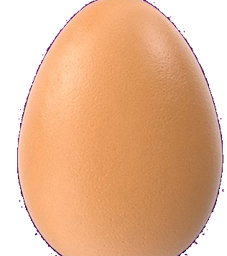
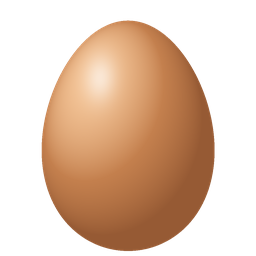
ov-art2 art: Speedrunner brick/duck/egg redrawn crisp; report + resume

diff --git a/rebuild/research/polish_report.md b/rebuild/research/polish_report.md
@@ -206,18 +206,6 @@ RESUME: 4oJgefAYN4k (batch 1 pushed; order = /workspace/work/ov_art1_order.txt)
 - zDFsnRE_Gig + iqfHW2_sMmc (Who Takes the Crown x2): white pixel N/B/R/Q were blurry, double-outlined (white halo) and much bigger than the cburnett pawns/king next to them; re-traced as clean vectors (one black outline) at the cburnett scale (84%).
 RESUME: last id done = iqfHW2_sMmc
 
-## ov-art2
-Art fix, second third of the sorted mode ids (MwXcULBxA_s .. gY9DNg9xDUM, 166 ids), ordered furthest-from-chess first. Owner art rule 5:21 PM ET.
-Tools (sandbox, not in repo): /workspace/work/ov_art2_tools/ (mono_set.py = rebuild a black/white icon pair from the white sprite; draw_pawn.py; clean.py; norm.py = centre + fit to 88-92% of the canvas).
-- _RFXN1Ye3sY (Ouroboros Master): FIX the shared Ouroboros icons (JAz_qMQpI1o/*) were jaggy with a speckled white halo on every black piece and the marching pawn had no outline; rebuilt as crisp 256px pairs in assets/modes/_RFXN1Ye3sY/ (white sprite smoothed, black = black fill + white detail lines derived from it), marching pawn redrawn; queen_face avatar + boss intro had the video caption ("Ouroboros Queen") baked over the crown: caption painted out from research/frames/sprites/_RFXN1Ye3sY_ouroboros_queen.png and the face recropped. (JAz_qMQpI1o / rf2HSTXTehE can point at the same files.)
-- VVuAgqLzD_o (Meta Chess): FIX rock was a blurry 90px box -> redrawn tile (grey square, target rings, pawn, as the video's d4/e5 blockers); medusa/sniper/sumo/camel had a transparent hole across the base (half-coloured) -> filled; dragonfly speckles trimmed.
-- djfYBXvvaYI (Villagers): FIX soldier/sergeant/villager sprites had a green fringe from the video's board squares -> neutralised, stray specks removed.
-- RDl-EmbTRWc (Chessformer, gravity): FIX avatar was a meaningless beige crop -> red king on the level's tan/green; pieces were pale cburnett glyphs under CSS hue filters -> the video's flat blue set (assets/modes/oAoik9Dj2qQ/blue_*.png) + a red king (cburnett outline in red, 256px); the two .pc filters removed from params.css.
-- Checked clean, no change: d-4NWgCwzco, Nz2A-g73_iM, OVM-2QJ2NFQ, dKBSZUzVQ1E (2D view; 3D is ov-3d), WXcmWG7Eczs, boaA9_TjXeU, fUQXSj5jVUk, PszkLYudcws, dkCMhNcZezM, dztzDlPfqSI, NK4Upb_s8Ok, OO3XlFQ32i0, c-_Th-jjfyM.
-- WEYUcaJTBso (King of the Bridge; set shared by 0LO0D0rOif0 1FKa1LnTDeQ 4KetMbEVvhI M0rsyuvaTrk Y7KKKTTkwNk hv_NHWqysZE puKYAUl9x9s ulE3YPZI9Sc): FIX the pixel set (pixel/*.svg) was a blurry JPEG-smudged cut (700-1500 colours per piece) -> re-cut from the Steam store screenshot (https://shared.fastly.steamstatic.com/store_item_assets/steam/apps/2523120/ss_84137ac7e990878b5d2fcfad8b24a4c345749d0b.jpg, start position, 77px squares) snapped to the game's 6-colour palette, crisp 256px nearest-neighbour, bottom-aligned at one common scale; black R/B/Q/N/P = the same shapes in the game's dark green; black king (hooded troll piece, back-rank cut merges with the board wall) redrawn as pixel art from that frame (cross-checked on https://i.redd.it/ym5i5yrtokoc1.png). Troll avatar: leftover title-card background replaced by flat dark green.
-- Y7KKKTTkwNk (King of the Bridge goose ending): uses the WEYUcaJTBso set + troll above.
-- PDCuJf3SdRY (Locust): FIX locust.png (jumpscare + board overlay) had the video's chessboard squares baked in behind the figure -> background cut to transparent, figure kept. QA 390/360 ok.
-RESUME: last id done = Y7KKKTTkwNk (priority order in /workspace/work/ov_art2_ids.txt; next d8pJkdxtXAA)
 - CxtttdnwNWk + 1_FSHqyc904 (Chess Ultimate, both modes share cu/): 40 tokens rebuilt at 256px from the game's own character renders (TierMaker template, URL in both source.notes) cut out with rembg on a sky disc inside the same cyan/red side ring; old video crops were blurry partial faces and Pawn had a red glow halo. Dragon/Fisherman/Minion (not in that set) keep their video crops, re-ringed to match. Jester keeps the King art on purpose (rules: it looks exactly like a King).
 - 7lEglazTlo8 (Soko Chess): black pawn, yellow pawn and the red/green target icons were 25-96px blurry crops; redrawn as one crisp 192px pawn SVG shape in the video colours.
 RESUME: 7lEglazTlo8 (batch 2; order = /workspace/work/ov_art1_order.txt, done through index 31 except skipped-clean ones)
@@ -232,3 +220,19 @@ RESUME: last id done = RDl-EmbTRWc (order file /workspace/work/ov_art2_ids.txt, 
 - yXE14E0QKNI (Gothic): Chancellor / Archbishop were a rook/bishop glyph + RN/BN badge; now cburnett knight+rook / knight+bishop composites (SVG, assets/modes/yXE14E0QKNI/{w,b}_{chancellor,archbishop,amazon,general}.svg).
 - Same composites wired (piece img + glyph null, badge gone) in n-sYPJVwaXs (XXL: Chancellor, Archbishop, General, Amazon; Camel keeps its badge), qZyNuiVbGMI + rMSar6g_2HY (Passant: Empress, Amazon), hk85bBLSi7Q (Seirawan Elephant; inferred: chess.com draws an elephant head, no frame of it in the repo, so the R+N composite stands in).
 RESUME: last id done = hk85bBLSi7Q (order file /workspace/work/ov_art3_order.txt, done through line 32 + hk85bBLSi7Q, n-sYPJVwaXs)
+
+## ov-art2
+Art fix, second third of the sorted mode ids (MwXcULBxA_s .. gY9DNg9xDUM, 166 ids), ordered furthest-from-chess first. Owner art rule 5:21 PM ET.
+Tools (sandbox, not in repo): /workspace/work/ov_art2_tools/ (mono_set.py = rebuild a black/white icon pair from the white sprite; draw_pawn.py; clean.py; norm.py = centre + fit to 88-92% of the canvas).
+- _RFXN1Ye3sY (Ouroboros Master): FIX the shared Ouroboros icons (JAz_qMQpI1o/*) were jaggy with a speckled white halo on every black piece and the marching pawn had no outline; rebuilt as crisp 256px pairs in assets/modes/_RFXN1Ye3sY/ (white sprite smoothed, black = black fill + white detail lines derived from it), marching pawn redrawn; queen_face avatar + boss intro had the video caption ("Ouroboros Queen") baked over the crown: caption painted out from research/frames/sprites/_RFXN1Ye3sY_ouroboros_queen.png and the face recropped. (JAz_qMQpI1o / rf2HSTXTehE can point at the same files.)
+- VVuAgqLzD_o (Meta Chess): FIX rock was a blurry 90px box -> redrawn tile (grey square, target rings, pawn, as the video's d4/e5 blockers); medusa/sniper/sumo/camel had a transparent hole across the base (half-coloured) -> filled; dragonfly speckles trimmed.
+- djfYBXvvaYI (Villagers): FIX soldier/sergeant/villager sprites had a green fringe from the video's board squares -> neutralised, stray specks removed.
+- RDl-EmbTRWc (Chessformer, gravity): FIX avatar was a meaningless beige crop -> red king on the level's tan/green; pieces were pale cburnett glyphs under CSS hue filters -> the video's flat blue set (assets/modes/oAoik9Dj2qQ/blue_*.png) + a red king (cburnett outline in red, 256px); the two .pc filters removed from params.css.
+- Checked clean, no change: d-4NWgCwzco, Nz2A-g73_iM, OVM-2QJ2NFQ, dKBSZUzVQ1E (2D view; 3D is ov-3d), WXcmWG7Eczs, boaA9_TjXeU, fUQXSj5jVUk, PszkLYudcws, dkCMhNcZezM, dztzDlPfqSI, NK4Upb_s8Ok, OO3XlFQ32i0, c-_Th-jjfyM.
+- WEYUcaJTBso (King of the Bridge; set shared by 0LO0D0rOif0 1FKa1LnTDeQ 4KetMbEVvhI M0rsyuvaTrk Y7KKKTTkwNk hv_NHWqysZE puKYAUl9x9s ulE3YPZI9Sc): FIX the pixel set (pixel/*.svg) was a blurry JPEG-smudged cut (700-1500 colours per piece) -> re-cut from the Steam store screenshot (https://shared.fastly.steamstatic.com/store_item_assets/steam/apps/2523120/ss_84137ac7e990878b5d2fcfad8b24a4c345749d0b.jpg, start position, 77px squares) snapped to the game's 6-colour palette, crisp 256px nearest-neighbour, bottom-aligned at one common scale; black R/B/Q/N/P = the same shapes in the game's dark green; black king (hooded troll piece, back-rank cut merges with the board wall) redrawn as pixel art from that frame (cross-checked on https://i.redd.it/ym5i5yrtokoc1.png). Troll avatar: leftover title-card background replaced by flat dark green.
+- Y7KKKTTkwNk (King of the Bridge goose ending): uses the WEYUcaJTBso set + troll above.
+- PDCuJf3SdRY (Locust): FIX locust.png (jumpscare + board overlay) had the video's chessboard squares baked in behind the figure -> background cut to transparent, figure kept. QA 390/360 ok.
+- TTimDDC4Cwc (Seirawan, Hawk): FIX hawk_b was a flat grey bird with no outline and hawk.png had a brown halo -> both re-cut from the video frame (research/frames/sprites/TTimDDC4Cwc_hawk.png; magenta + dark glow removed, black outline kept), 512px at 92%; hawk_b = same shapes, black outline + charcoal fill like the neo black set (also used by the intro overlay).
+- UZ79sKLa6z4 (Speedrunner vs 3 Hunters): FIX brick was a blurry 128px crop with a beige strip -> crisp grey brick tile; duck was a jaggy speckled 128px cut -> the clean chess.com duck (E2x-QTgBD5k/duck.png) recoloured to the video's green hotbar duck; egg was a photo clipped flat top/bottom with a dark fringe -> redrawn shaded egg. Hunter avatars left (square crops are fine as avatars).
+- Checked clean, no change: d8pJkdxtXAA (video jpgs only), dz81n87sILE (animal sprites are square bot avatars), RqXorBCKAdA, cR6r8NZz-CA, cYVauucyLyQ (splat is deliberate pixel art), UzoZVdmGpyc, VBsA2Z6ijkg, WLmt62Ll9Hs, QrKIKcYN5m4 (caged king/crowned pawn intro overlays are full video stills), SJrOiyN2-HA. ehlf0_asIKo uses the shared CxtttdnwNWk/cu set (first third, ov-art1) - not touched.
+RESUME: last id done = TTimDDC4Cwc (ids 1-32 done; next dR76717W3JM)
